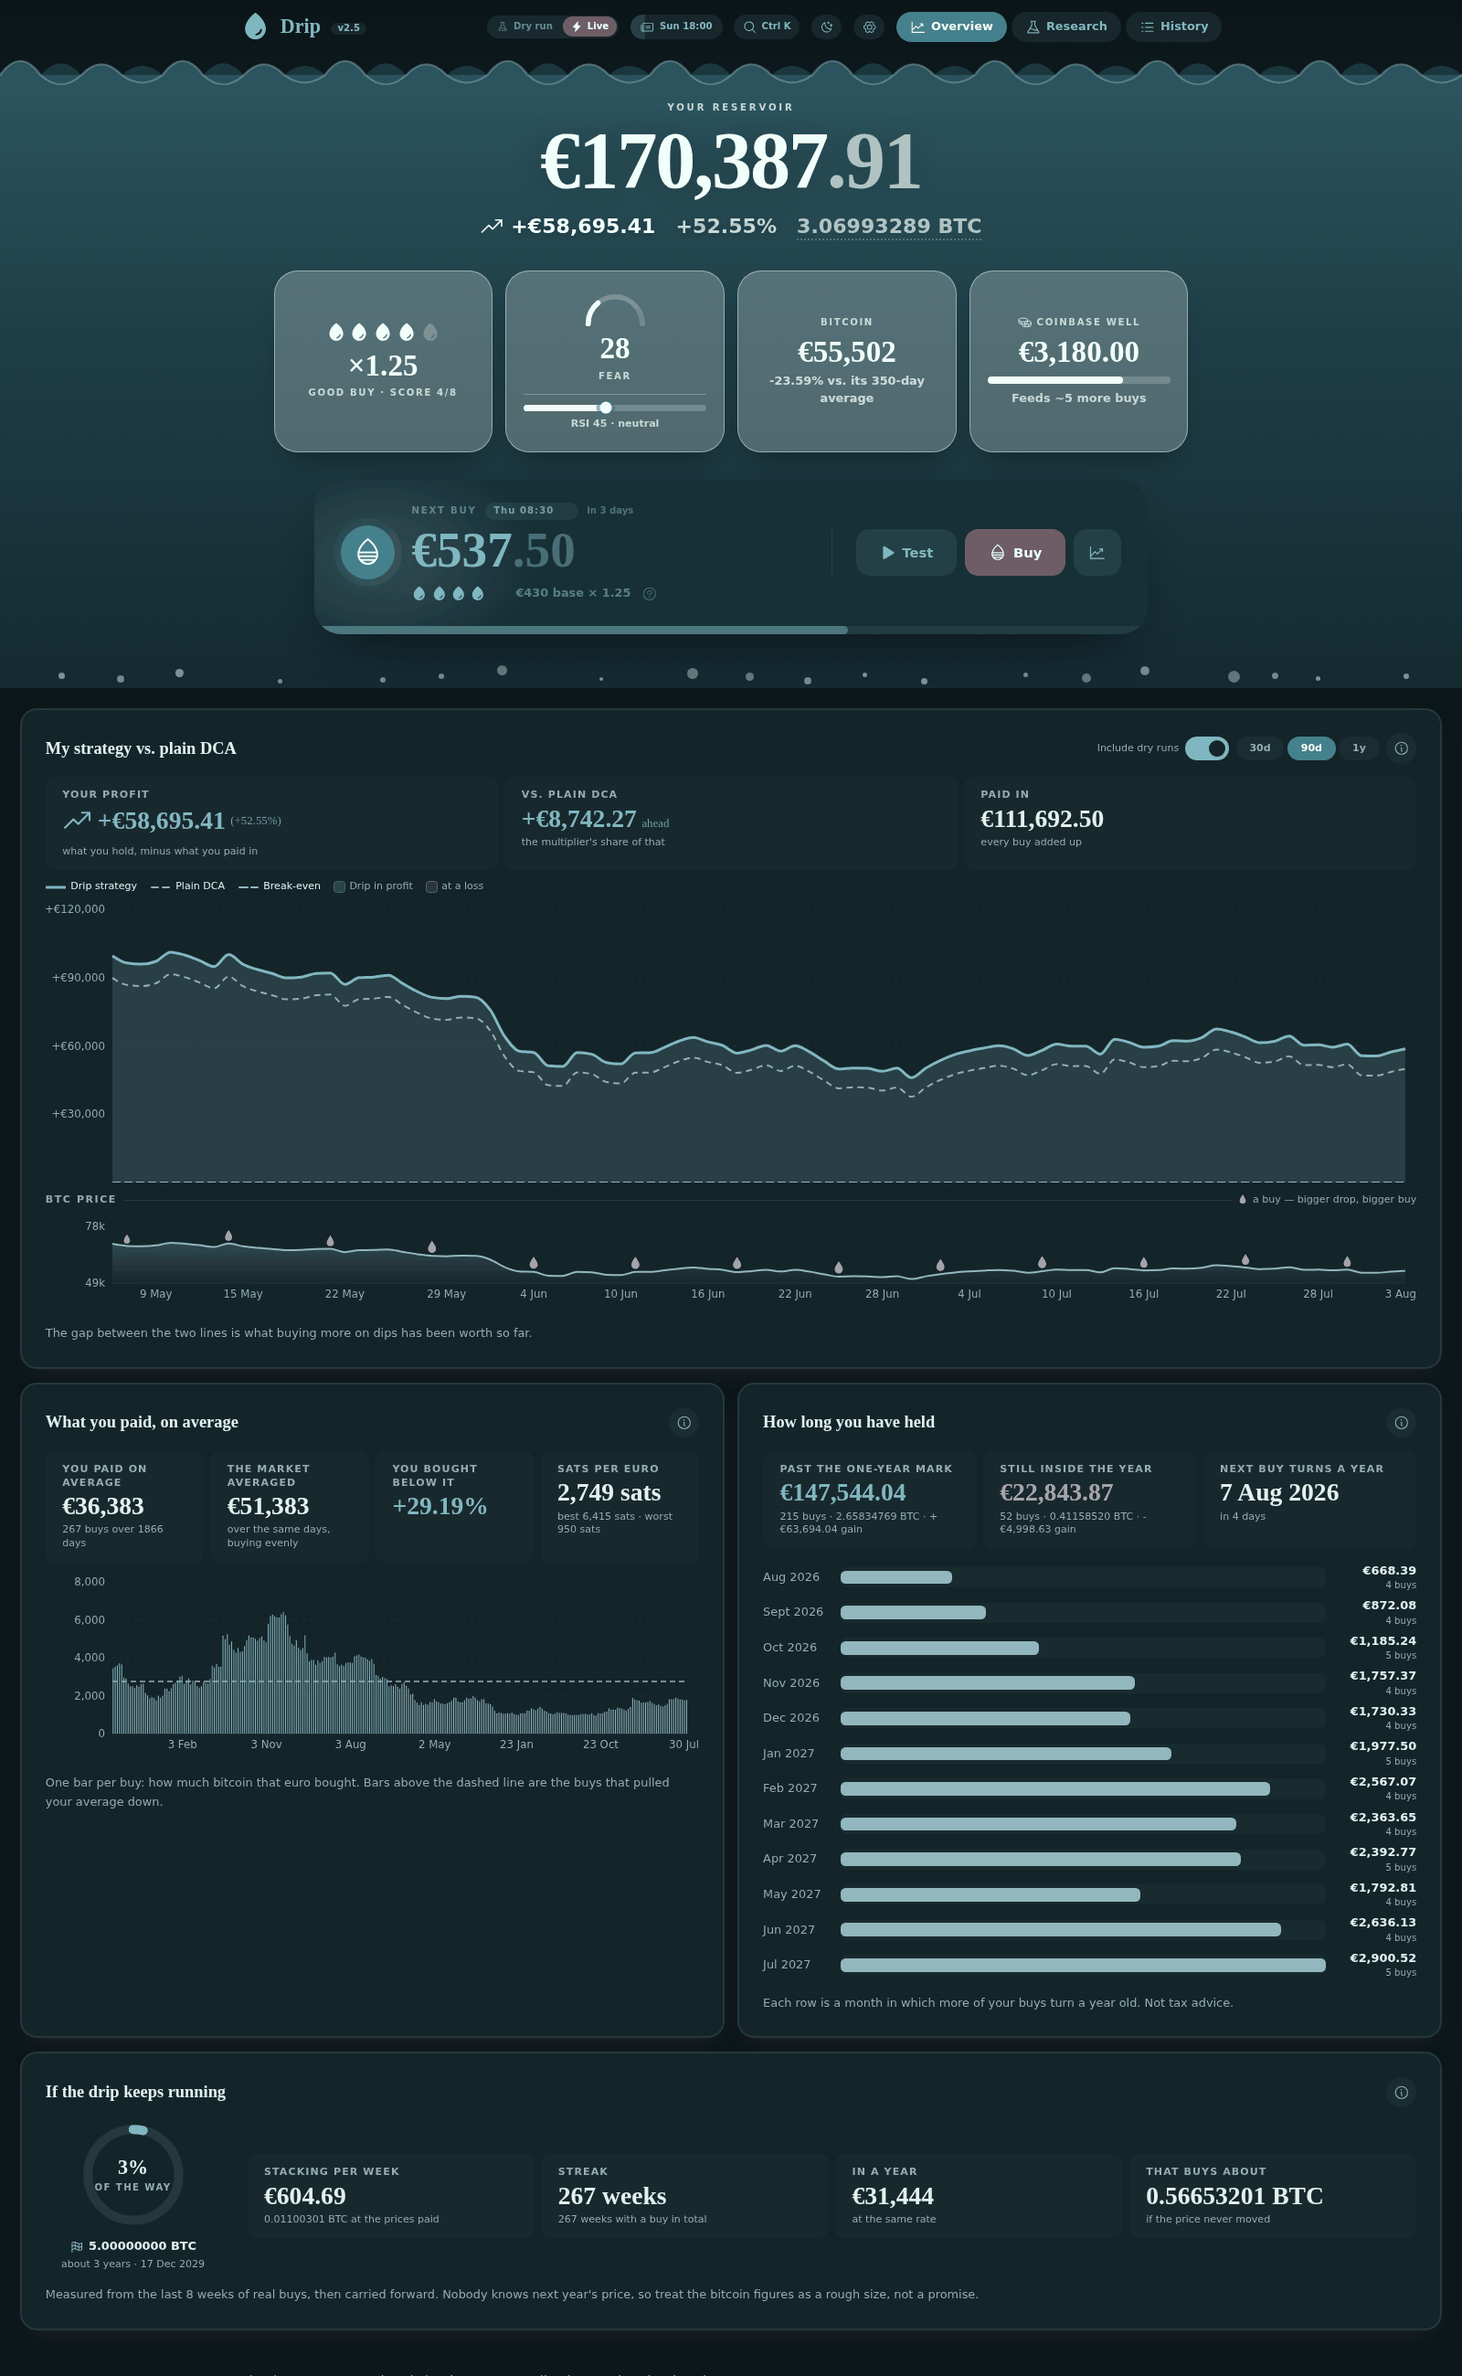
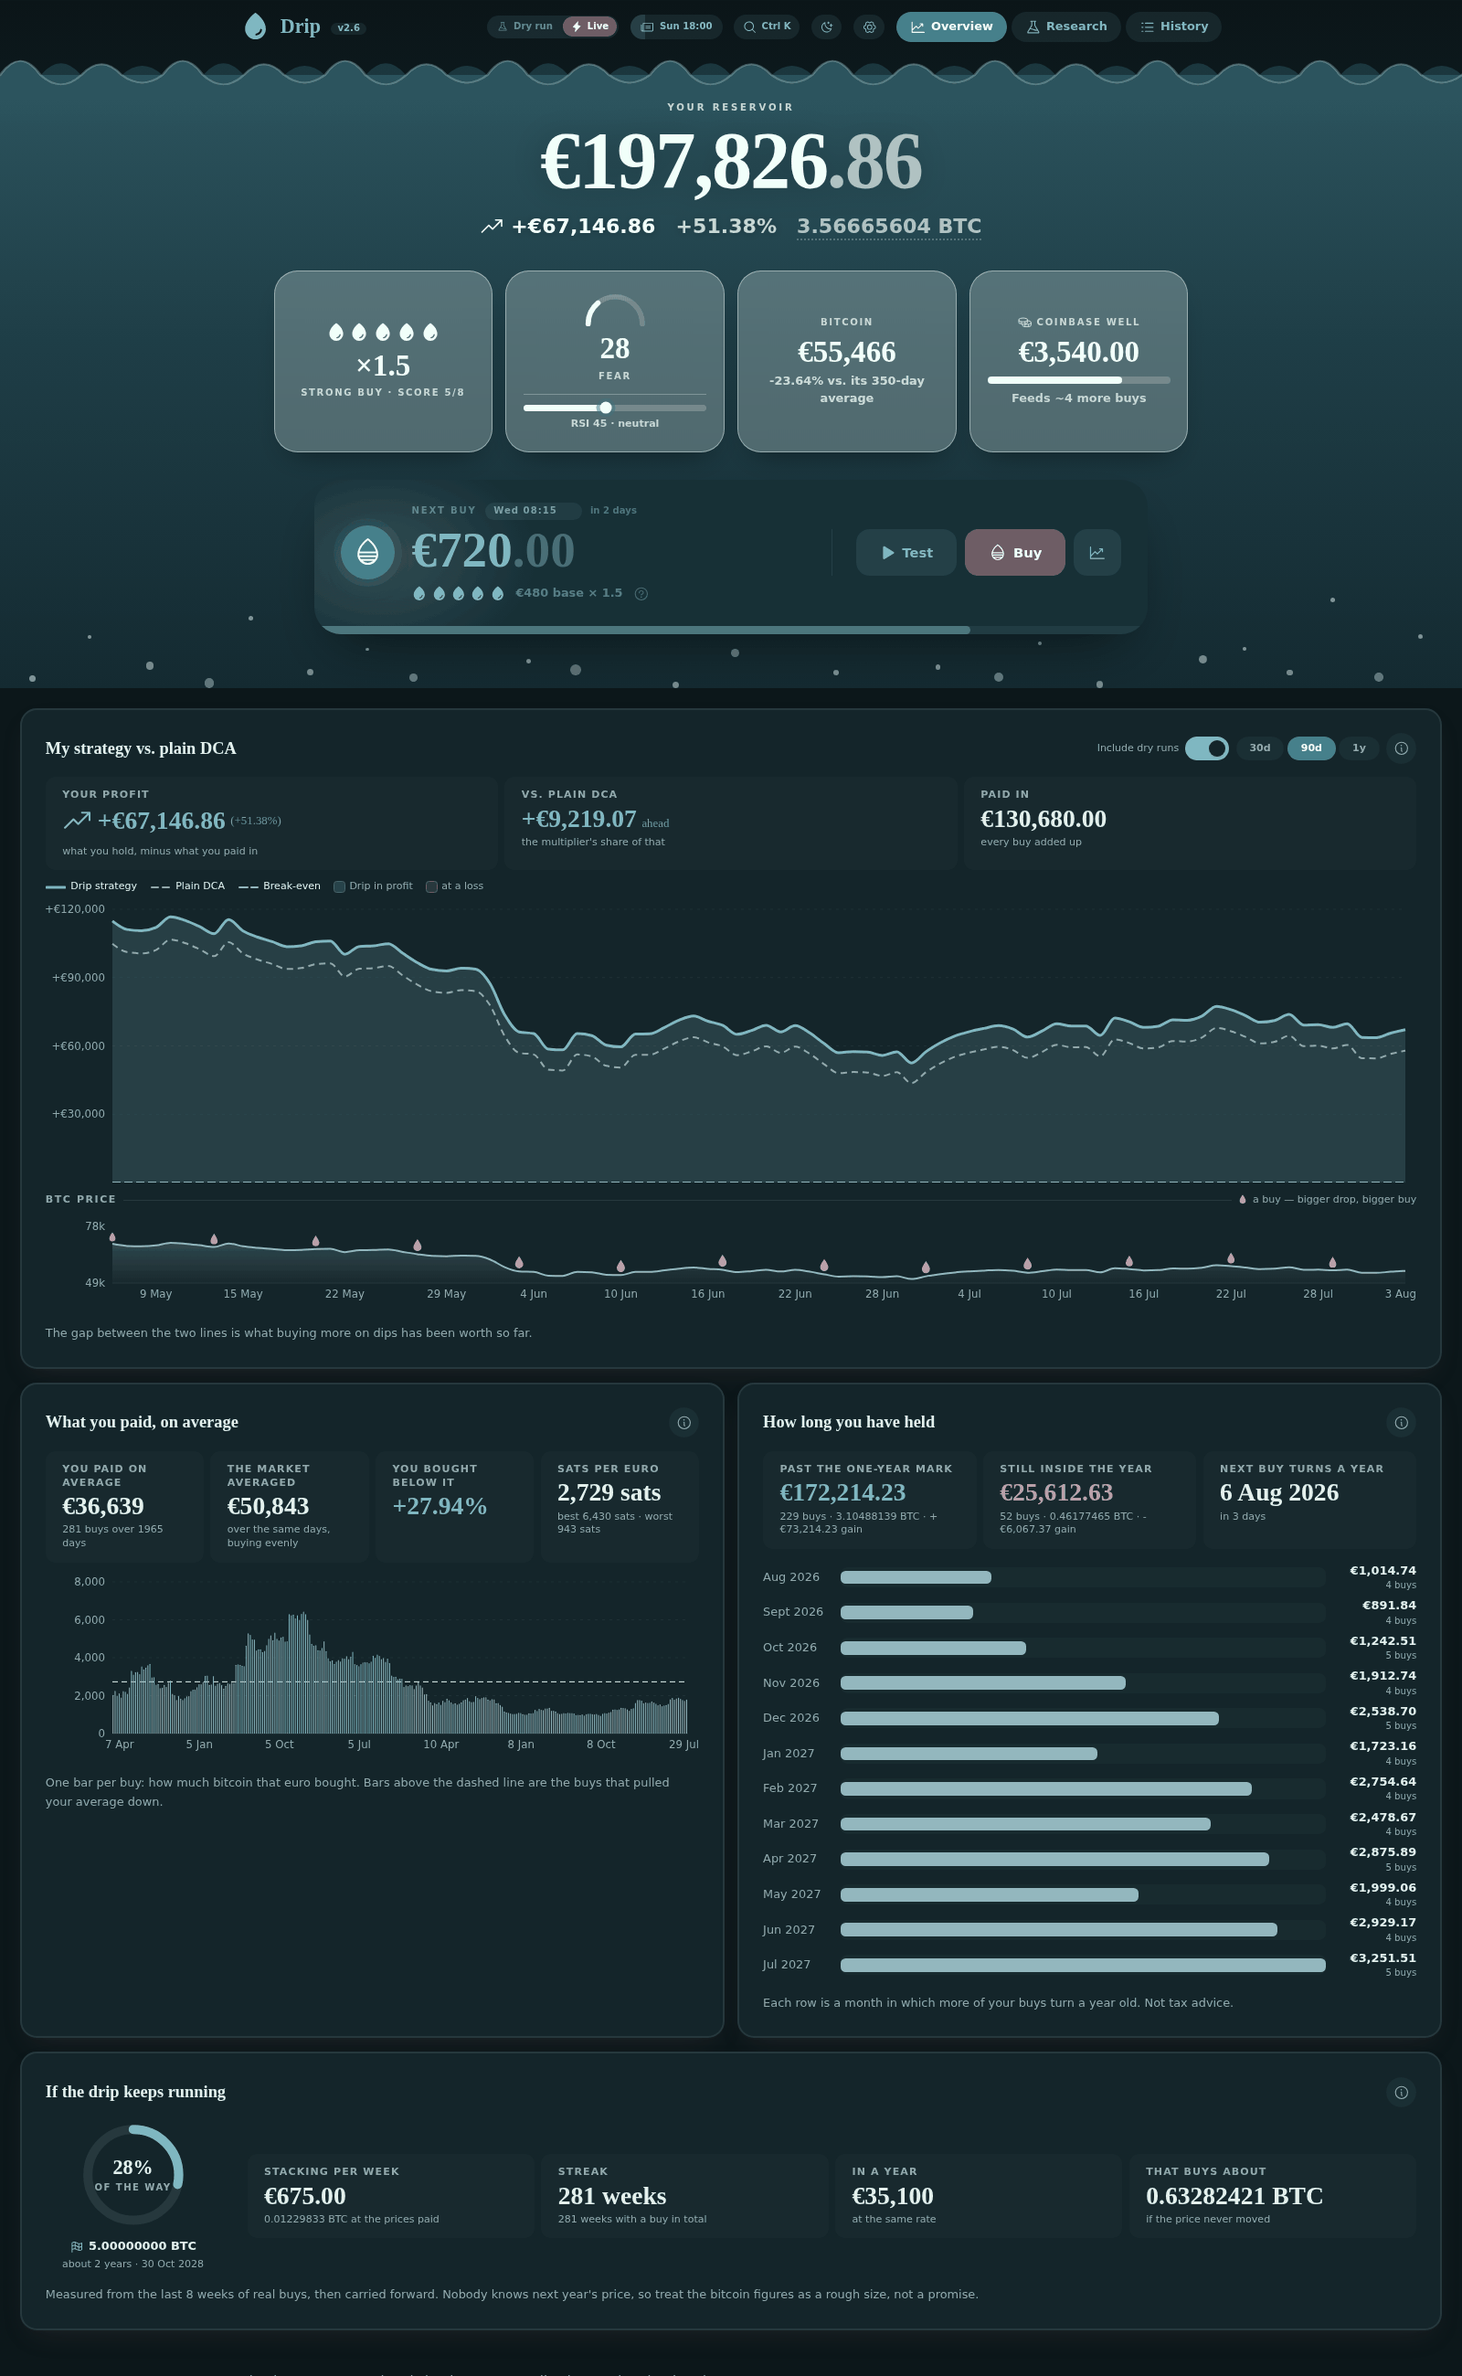
upd: bubbles rise the whole tank

diff --git a/frontend/src/components/header/TankBackdrop.tsx b/frontend/src/components/header/TankBackdrop.tsx
@@ -9,46 +9,66 @@
  * night theme comes on, instead of leaving a lit crest on a dark tank.
  */
 
+import type { CSSProperties } from "react";
+
 const WAVE_BACK = "var(--wave-back)";
 const WAVE_FRONT = "var(--wave-front)";
 const FOAM = "var(--wave-foam)";
 
-/** Rising bubbles — position, size, tempo, delay and climb height. */
+/**
+ * Rising bubbles.
+ *
+ * `from` is where one is born and `rise` how far it climbs — both a share of
+ * the water's own height, which is what lets the same table look right in the
+ * hero and on the full-screen wall display. The two add up to somewhere between
+ * three quarters and just under the surface, so the tallest climbers vanish a
+ * hair below the waterline and never punch through it. `drift` is the sideways
+ * sway on the way up, `tone` the cream's alpha: the big ones sit fainter, the
+ * way a bubble further back would. Sizes are in rem like everything else here,
+ * so a 2560px monitor gets a bigger tank rather than the same specks in it.
+ *
+ * The delays are spread across the durations rather than bunched, so no two
+ * neighbours leave the floor together and the tank is never briefly empty.
+ */
 const BUBBLES: {
   left: string;
-  bottom: string;
+  from: string;
+  rise: string;
   size: string;
-  color: string;
+  tone: string;
+  drift: string;
   duration: string;
   delay: string;
-  kind?: "short" | "tall";
 }[] = [
-  { left: "4%", bottom: "10px", size: "7px", color: "rgba(241,255,250,.48)", duration: "6.2s", delay: "2.8s" },
-  { left: "12%", bottom: "12px", size: "9px", color: "rgba(241,255,250,.5)", duration: "6.5s", delay: ".2s" },
-  { left: "19%", bottom: "5px", size: "5px", color: "rgba(241,255,250,.45)", duration: "7.6s", delay: "1.1s", kind: "tall" },
-  { left: "26%", bottom: "6px", size: "6px", color: "rgba(241,255,250,.45)", duration: "5s", delay: "1.4s", kind: "short" },
-  { left: "34%", bottom: "14px", size: "11px", color: "rgba(241,255,250,.38)", duration: "8s", delay: "3.2s", kind: "tall" },
-  { left: "41%", bottom: "8px", size: "4px", color: "rgba(241,255,250,.5)", duration: "4.5s", delay: ".7s", kind: "short" },
-  { left: "47%", bottom: "10px", size: "12px", color: "rgba(241,255,250,.4)", duration: "7.4s", delay: ".9s" },
-  { left: "55%", bottom: "4px", size: "8px", color: "rgba(241,255,250,.44)", duration: "6.8s", delay: "2.4s", kind: "tall" },
-  { left: "63%", bottom: "4px", size: "7px", color: "rgba(241,255,250,.5)", duration: "5.6s", delay: "2.1s", kind: "short" },
-  { left: "70%", bottom: "12px", size: "5px", color: "rgba(241,255,250,.46)", duration: "5.4s", delay: "3.5s" },
-  { left: "78%", bottom: "14px", size: "10px", color: "rgba(241,255,250,.42)", duration: "6.9s", delay: ".5s" },
-  { left: "84%", bottom: "6px", size: "13px", color: "rgba(241,255,250,.35)", duration: "7.8s", delay: "1.6s", kind: "tall" },
-  { left: "90%", bottom: "8px", size: "5px", color: "rgba(241,255,250,.5)", duration: "4.6s", delay: "1.8s", kind: "short" },
-  { left: "96%", bottom: "10px", size: "6px", color: "rgba(241,255,250,.48)", duration: "5.8s", delay: ".4s" },
-  { left: "8%", bottom: "6px", size: "8px", color: "rgba(241,255,250,.42)", duration: "8.4s", delay: "1.9s", kind: "tall" },
-  { left: "30%", bottom: "10px", size: "6px", color: "rgba(241,255,250,.46)", duration: "7.9s", delay: ".3s", kind: "tall" },
-  { left: "51%", bottom: "8px", size: "9px", color: "rgba(241,255,250,.4)", duration: "8.6s", delay: "2.7s", kind: "tall" },
-  { left: "59%", bottom: "12px", size: "5px", color: "rgba(241,255,250,.5)", duration: "6.4s", delay: "1.2s" },
-  { left: "74%", bottom: "6px", size: "10px", color: "rgba(241,255,250,.38)", duration: "8.2s", delay: "3.9s", kind: "tall" },
-  { left: "87%", bottom: "10px", size: "7px", color: "rgba(241,255,250,.44)", duration: "7.7s", delay: "2.2s", kind: "tall" },
+  { left: "2%", from: "1%", rise: "92%", size: "0.45rem", tone: ".5", drift: "0.5rem", duration: "9.5s", delay: "0.6s" },
+  { left: "6%", from: "8%", rise: "74%", size: "0.3rem", tone: ".52", drift: "-0.3rem", duration: "7.2s", delay: "4.8s" },
+  { left: "10%", from: "3%", rise: "84%", size: "0.55rem", tone: ".44", drift: "-0.4rem", duration: "9s", delay: "2.1s" },
+  { left: "14%", from: "0%", rise: "95%", size: "0.7rem", tone: ".4", drift: "0.75rem", duration: "11s", delay: "7.4s" },
+  { left: "17%", from: "11%", rise: "70%", size: "0.35rem", tone: ".5", drift: "-0.35rem", duration: "6.8s", delay: "1.3s" },
+  { left: "21%", from: "2%", rise: "89%", size: "0.5rem", tone: ".46", drift: "0.6rem", duration: "9.8s", delay: "5.5s" },
+  { left: "25%", from: "6%", rise: "62%", size: "0.25rem", tone: ".55", drift: "-0.25rem", duration: "6.2s", delay: "3s" },
+  { left: "28%", from: "1%", rise: "93%", size: "0.6rem", tone: ".42", drift: "0.45rem", duration: "10.6s", delay: "0.2s" },
+  { left: "32%", from: "13%", rise: "72%", size: "0.4rem", tone: ".48", drift: "-0.55rem", duration: "8.6s", delay: "6.2s" },
+  { left: "36%", from: "4%", rise: "86%", size: "0.35rem", tone: ".5", drift: "0.35rem", duration: "8.2s", delay: "2.6s" },
+  { left: "39%", from: "2%", rise: "96%", size: "0.8rem", tone: ".36", drift: "0.5rem", duration: "12s", delay: "8.1s" },
+  { left: "43%", from: "9%", rise: "66%", size: "0.3rem", tone: ".52", drift: "-0.3rem", duration: "6.6s", delay: "4.3s" },
+  { left: "46%", from: "0%", rise: "90%", size: "0.45rem", tone: ".46", drift: "0.65rem", duration: "10.4s", delay: "1.6s" },
+  { left: "50%", from: "5%", rise: "79%", size: "0.6rem", tone: ".42", drift: "-0.5rem", duration: "9.2s", delay: "6.9s" },
+  { left: "53%", from: "16%", rise: "64%", size: "0.3rem", tone: ".5", drift: "0.3rem", duration: "7s", delay: "3.6s" },
+  { left: "57%", from: "2%", rise: "94%", size: "0.4rem", tone: ".48", drift: "0.4rem", duration: "10.8s", delay: "0.9s" },
+  { left: "61%", from: "10%", rise: "75%", size: "0.5rem", tone: ".44", drift: "-0.45rem", duration: "8.8s", delay: "5.8s" },
+  { left: "64%", from: "3%", rise: "87%", size: "0.35rem", tone: ".5", drift: "0.3rem", duration: "8.4s", delay: "2.2s" },
+  { left: "68%", from: "1%", rise: "91%", size: "0.7rem", tone: ".38", drift: "0.8rem", duration: "11.6s", delay: "7.7s" },
+  { left: "71%", from: "7%", rise: "68%", size: "0.25rem", tone: ".55", drift: "-0.25rem", duration: "6.4s", delay: "4s" },
+  { left: "75%", from: "0%", rise: "97%", size: "0.5rem", tone: ".44", drift: "0.5rem", duration: "11.2s", delay: "1.1s" },
+  { left: "78%", from: "12%", rise: "73%", size: "0.4rem", tone: ".48", drift: "-0.4rem", duration: "8s", delay: "6.5s" },
+  { left: "82%", from: "4%", rise: "83%", size: "0.6rem", tone: ".42", drift: "0.55rem", duration: "9.6s", delay: "3.2s" },
+  { left: "85%", from: "6%", rise: "60%", size: "0.3rem", tone: ".52", drift: "-0.3rem", duration: "6.6s", delay: "0.4s" },
+  { left: "88%", from: "2%", rise: "92%", size: "0.45rem", tone: ".46", drift: "0.6rem", duration: "10.2s", delay: "5.2s" },
+  { left: "91%", from: "14%", rise: "71%", size: "0.35rem", tone: ".5", drift: "-0.35rem", duration: "7.6s", delay: "2.8s" },
+  { left: "94%", from: "1%", rise: "88%", size: "0.65rem", tone: ".4", drift: "-0.7rem", duration: "10s", delay: "8.4s" },
+  { left: "97%", from: "8%", rise: "78%", size: "0.35rem", tone: ".48", drift: "0.35rem", duration: "8.6s", delay: "1.9s" },
 ];
-
-const BUBBLE_ANIMATION = {
-  short: "animate-bubble-short",
-  tall: "animate-bubble-tall",
-} as const;
 
 // Each wave path repeats every 120px so the marquee shift loops seamlessly.
 const WAVE_BACK_PATH =
@@ -73,18 +93,19 @@ export default function TankBackdrop() {
         {BUBBLES.map((b, i) => (
           <span
             key={i}
-            className={`absolute rounded-full ${
-              b.kind ? BUBBLE_ANIMATION[b.kind] : "animate-bubble"
-            }`}
-            style={{
-              left: b.left,
-              bottom: b.bottom,
-              width: b.size,
-              height: b.size,
-              backgroundColor: b.color,
-              animationDuration: b.duration,
-              animationDelay: b.delay,
-            }}
+            className="bubble"
+            style={
+              {
+                left: b.left,
+                bottom: b.from,
+                "--rise": b.rise,
+                "--size": b.size,
+                "--tone": b.tone,
+                "--drift": b.drift,
+                "--dur": b.duration,
+                "--delay": b.delay,
+              } as CSSProperties
+            }
           />
         ))}
       </div>

diff --git a/frontend/src/index.css b/frontend/src/index.css
@@ -197,56 +197,65 @@ body {
   animation: swell 7s ease-in-out infinite;
 }
 
-/* Bubbles rising through the tank: swell in, drift up, shrink and fade */
-@keyframes bubble {
+/* Bubbles rising through the tank.
+   The climb is a *share of the water*, never a pixel distance: the `.bubble`
+   span is the lane itself — `height: var(--rise)` against the tank — so moving
+   it by -100% of its own height carries the drop at its foot exactly that far.
+   A bubble that reaches just under the surface in the hero reaches just under
+   it on the full-screen wall display too, whatever the header is sized to. */
+@keyframes bubble-rise {
+  to {
+    transform: translateY(-100%);
+  }
+}
+
+/* The drop itself, on the same clock: swell in, sway around its lane, widen as
+   the water thins above it, and fade out just short of the waterline. */
+@keyframes bubble-drop {
   0% {
-    transform: translateY(0) scale(1);
+    transform: translateX(0) scale(0.7);
     opacity: 0;
   }
   12% {
-    opacity: 0.7;
+    opacity: 0.85;
+  }
+  35% {
+    transform: translateX(var(--drift)) scale(0.95);
+  }
+  70% {
+    transform: translateX(calc(var(--drift) * -0.75)) scale(1.05);
   }
   88% {
-    opacity: 0.45;
+    opacity: 0.7;
   }
   100% {
-    transform: translateY(-300px) scale(0.35);
+    transform: translateX(0) scale(1.12);
     opacity: 0;
   }
 }
 
-@keyframes bubble-short {
-  0% {
-    transform: translateY(0) scale(1);
-    opacity: 0;
-  }
-  15% {
-    opacity: 0.6;
-  }
-  85% {
-    opacity: 0.4;
-  }
-  100% {
-    transform: translateY(-150px) scale(0.4);
-    opacity: 0;
-  }
+/* The climb is linear on purpose: eased, every bubble would hang around the
+   floor and the top half of the tank would stand empty. */
+.bubble {
+  position: absolute;
+  width: var(--size);
+  height: var(--rise);
+  animation: bubble-rise var(--dur) linear infinite;
+  animation-delay: var(--delay);
 }
 
-@keyframes bubble-tall {
-  0% {
-    transform: translateY(0) scale(1);
-    opacity: 0;
-  }
-  10% {
-    opacity: 0.65;
-  }
-  90% {
-    opacity: 0.4;
-  }
-  100% {
-    transform: translateY(-460px) scale(0.3);
-    opacity: 0;
-  }
+/* `both` matters: without the backwards fill every bubble sits at the tank
+   floor as a static dot until its delay has run out. */
+.bubble::before {
+  content: "";
+  position: absolute;
+  bottom: 0;
+  width: var(--size);
+  height: var(--size);
+  border-radius: 9999px;
+  background: rgba(241, 255, 250, var(--tone));
+  animation: bubble-drop var(--dur) linear infinite both;
+  animation-delay: var(--delay);
 }
 
 /* A buy landing in the tank: rings spreading from the waterline, once. The
@@ -271,26 +280,13 @@ body {
   opacity: 0;
 }
 
-.animate-bubble {
-  animation: bubble 6.5s ease-in infinite;
-}
-
-.animate-bubble-short {
-  animation: bubble-short 5s ease-in infinite;
-}
-
-.animate-bubble-tall {
-  animation: bubble-tall 7.5s ease-in infinite;
-}
-
 @media (prefers-reduced-motion: reduce) {
   .animate-wave-slow,
   .animate-wave,
   .animate-wave-fast,
   .animate-swell,
-  .animate-bubble,
-  .animate-bubble-short,
-  .animate-bubble-tall,
+  .bubble,
+  .bubble::before,
   .animate-splash {
     animation: none;
   }

diff --git a/frontend/src/version.ts b/frontend/src/version.ts
@@ -17,6 +17,14 @@ export interface Release {
 
 export const CHANGELOG: Release[] = [
   {
+    version: "2.6",
+    date: "2026-08-03",
+    changes: [
+      "The tank's bubbles rise the full depth of the water now — from anywhere along the floor to just under the surface — instead of stopping halfway up on a tall header or on the wall display",
+      "More of them, each on its own path, and they no longer bunch up along the bottom",
+    ],
+  },
+  {
     version: "2.5",
     date: "2026-08-03",
     changes: [

diff --git a/README.md b/README.md
@@ -12,13 +12,12 @@ explicit, confirmed opt-in.
 
 *Example history, not a real account. Shown in the night theme; there is a day one too.*
 
-The dashboard also researches its own strategy - what each indicator contributed,
-whether the score predicts anything, what a different scoring would have done -
-reports what you paid against the market and how old each buy is, and carries the rate
-you stack at forward to the next round number of sats. Setting the drip happens on the
-next-buy card itself: click the amount to change your base, click the day and time to
-move the schedule or pause it. Once a week it sends you the whole thing on Discord. `Ctrl+K` reaches all of it, keys and backend
-included, so the Pi needs no shell after the first install.
+Your stack is a tank of water, and it fills. Underneath, the dashboard researches its
+own strategy, reports what you paid against the market, and carries the rate you stack
+at forward to the next round number of sats. Setting the drip happens on the next-buy
+card: click the amount, or the day and time. Once a week the whole thing arrives on
+Discord. `Ctrl+K` reaches all of it, keys and backend included, so the Pi needs no
+shell after the first install.
 
 ## Install
 
